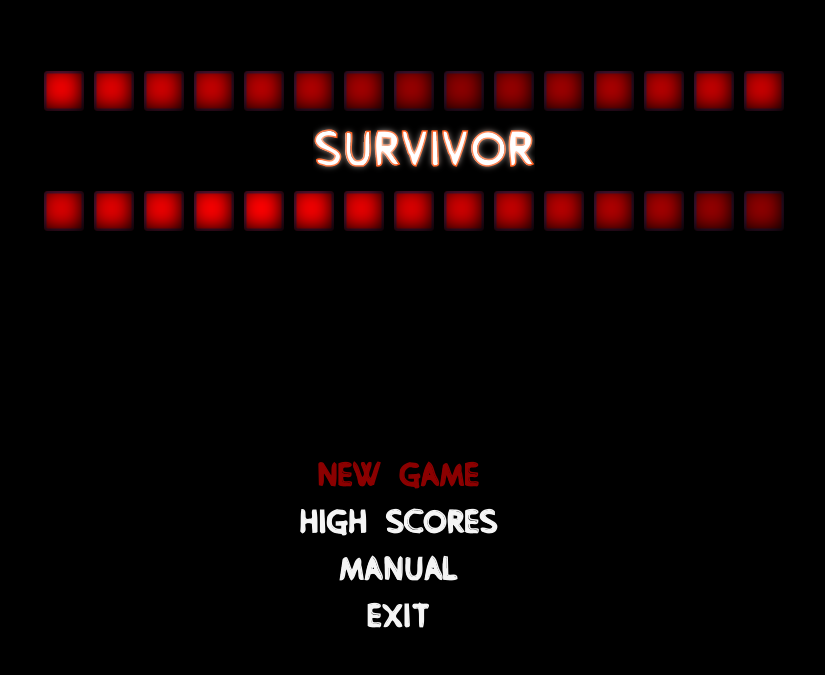
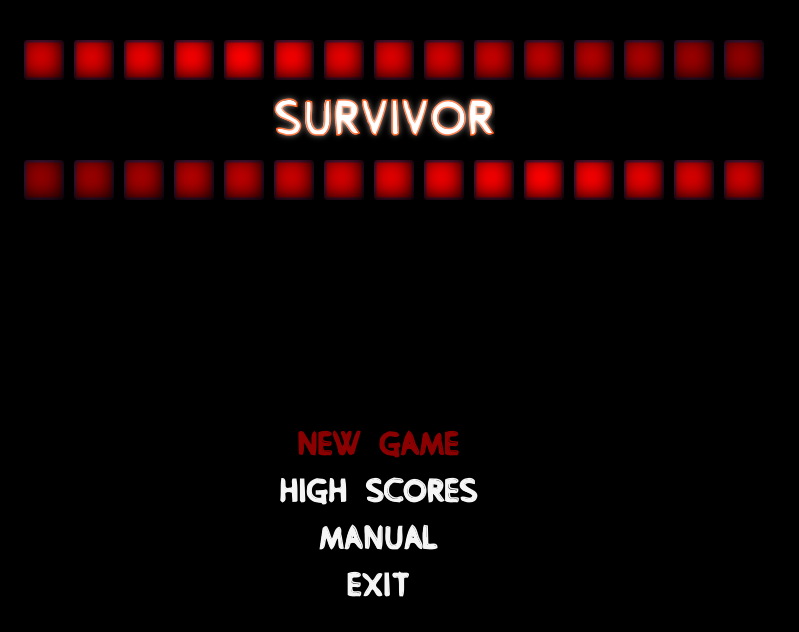
Feat: Update menu layout

Changed region(s): [[0.03, 0.0601, 0.9612, 0.3608], [0.3304, 0.7516, 0.6008, 0.962], [0.3605, 0.6614, 0.6008, 0.7215]]

diff --git a/src/main/java/com/adrianghub/zombie/menu/ZombieMainMenu.java b/src/main/java/com/adrianghub/zombie/menu/ZombieMainMenu.java
@@ -47,7 +47,7 @@ public class ZombieMainMenu extends FXGLMenu {
         title.setStroke(Color.ORANGERED);
         title.setStrokeWidth(1.5);
         title.setEffect(new Bloom(0.6));
-        centerTextBind(title, getAppWidth() / 2.0, 235);
+        centerTextBind(title, getAppWidth() / 2.0 - 20, 235);
 
         getContentRoot().getChildren().addAll(title);
 
